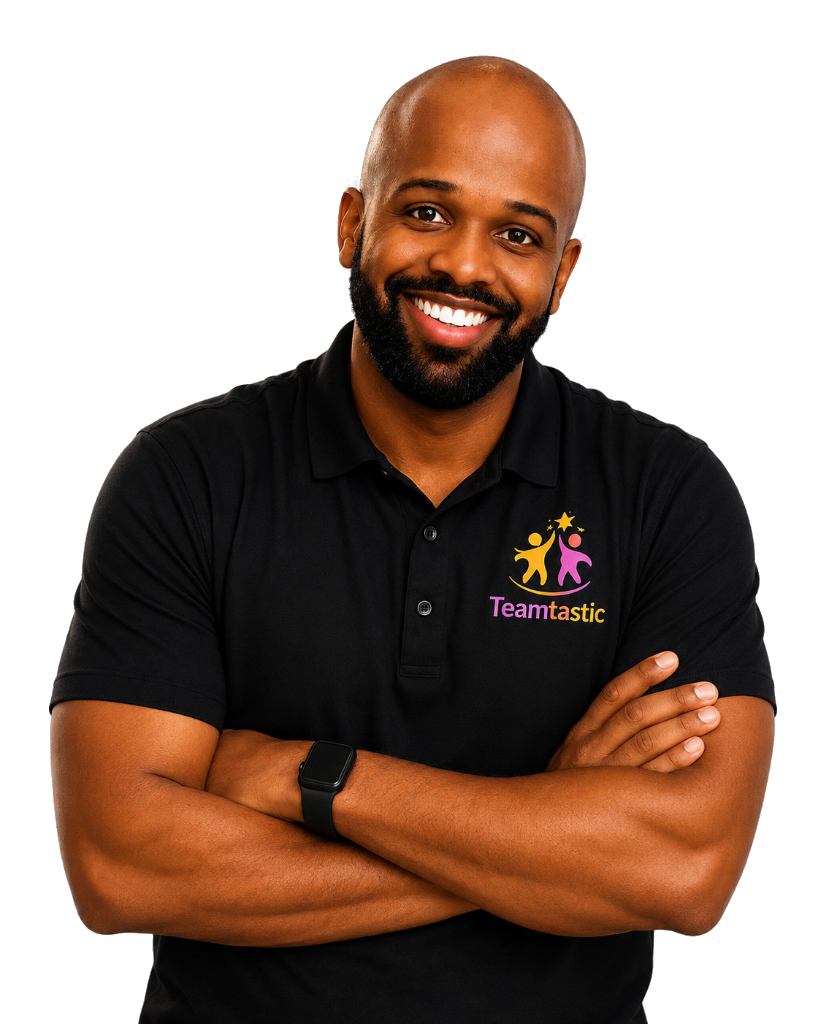
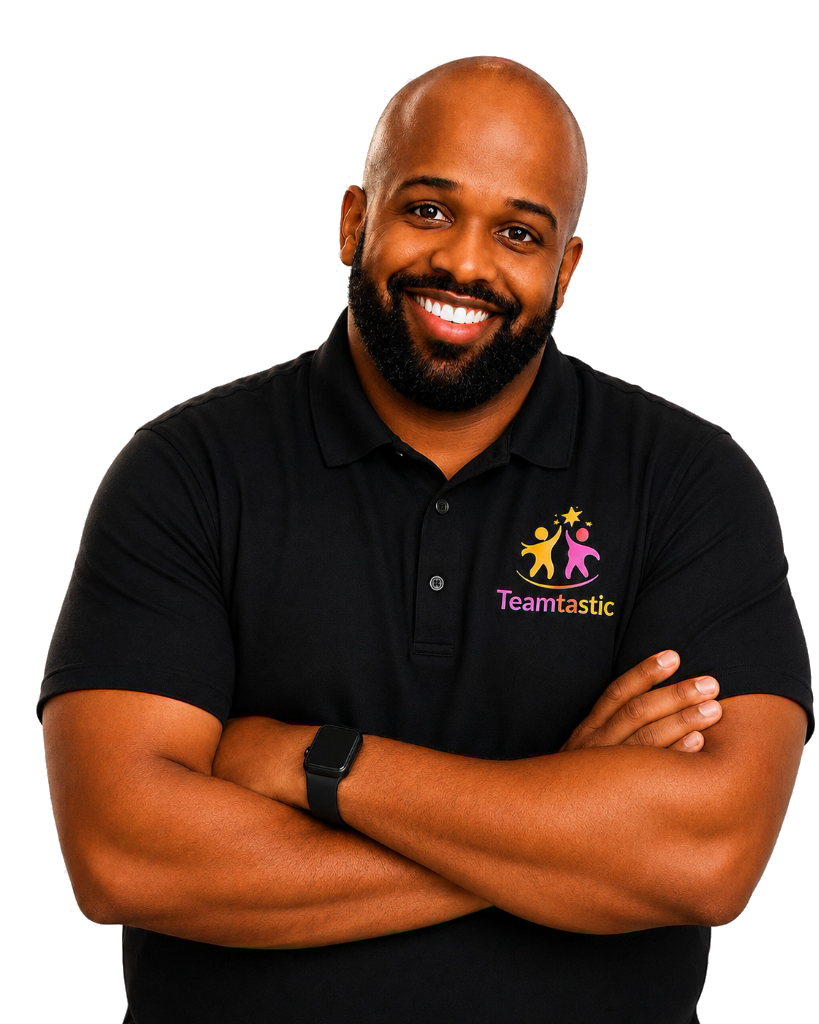
media: update emcee arms-crossed image and adjust callout layout coordinates to prevent overlap

diff --git a/src/app/team-experiences/page.js b/src/app/team-experiences/page.js
@@ -773,7 +773,7 @@ export default function TeamExperiences() {
                   className="max-h-full w-auto object-contain select-none pointer-events-none"
                 />
                 {/* Handwritten Speech bubble / yellow arrow */}
-                <div className="absolute -top-4 -left-6 md:-left-12 rotate-[-6deg] bg-amber-400 text-zinc-950 px-4 py-2 rounded-2xl shadow-xl font-script text-lg md:text-xl font-bold border-2 border-zinc-950">
+                <div className="absolute -top-16 -left-12 md:-left-24 rotate-[-6deg] bg-amber-400 text-zinc-950 px-4 py-2 rounded-2xl shadow-xl font-script text-lg md:text-xl font-bold border-2 border-zinc-950">
                   I can&apos;t wait to host your event! <br />
                   <span className="float-right text-sm font-sans tracking-wide font-extrabold">— Michael</span>
                 </div>
